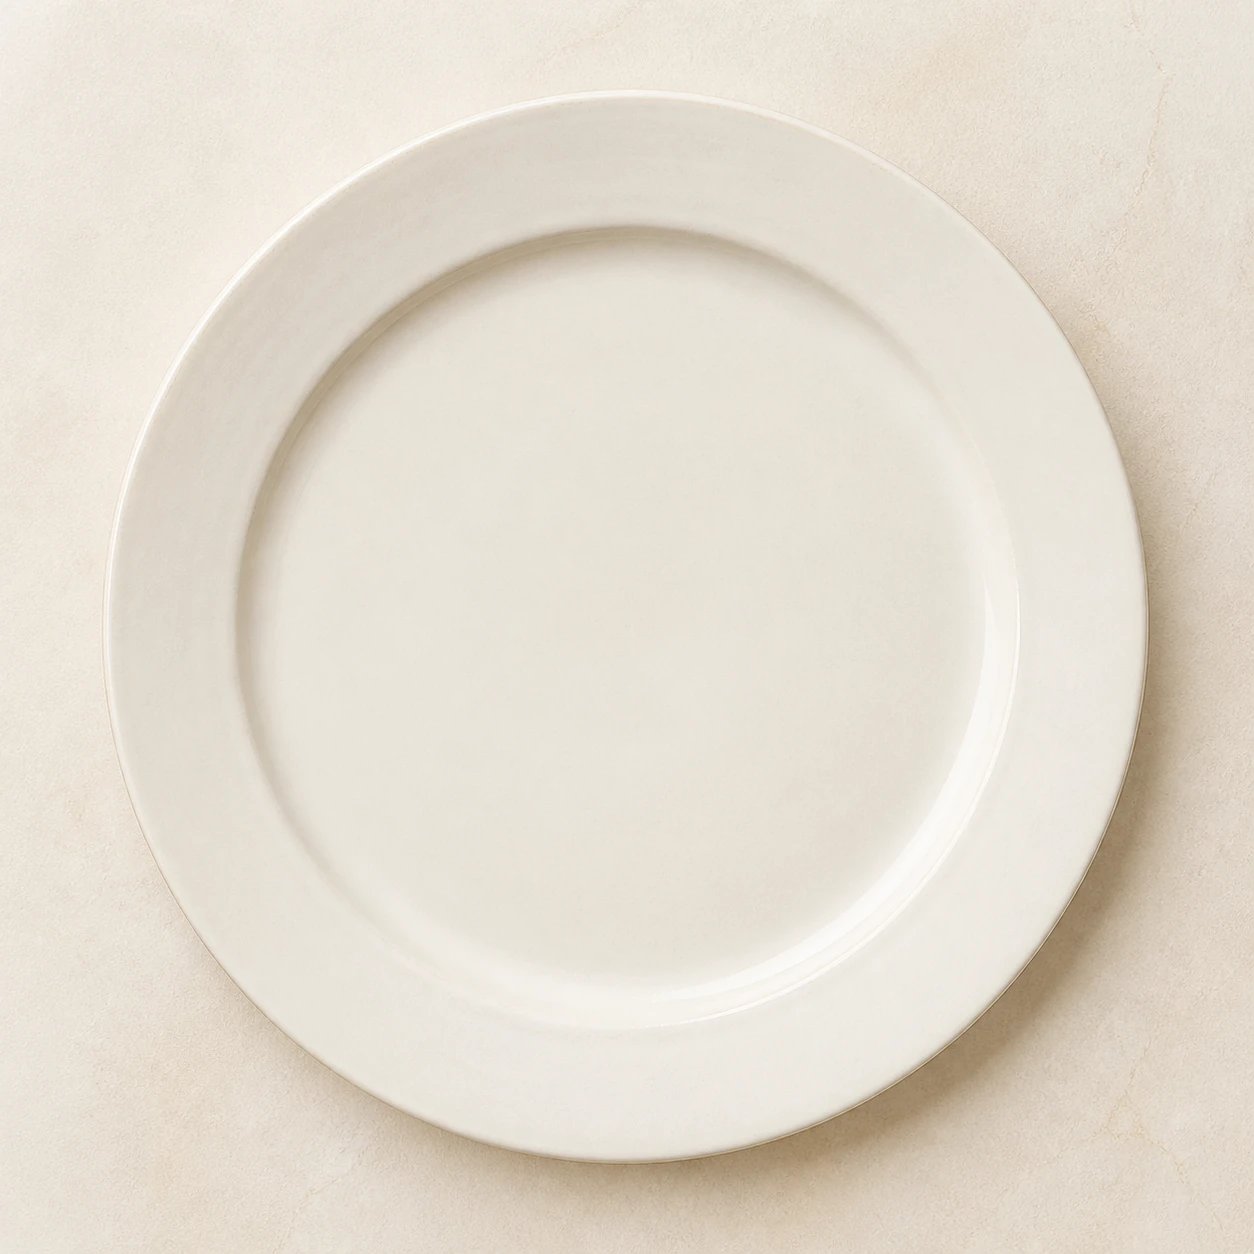
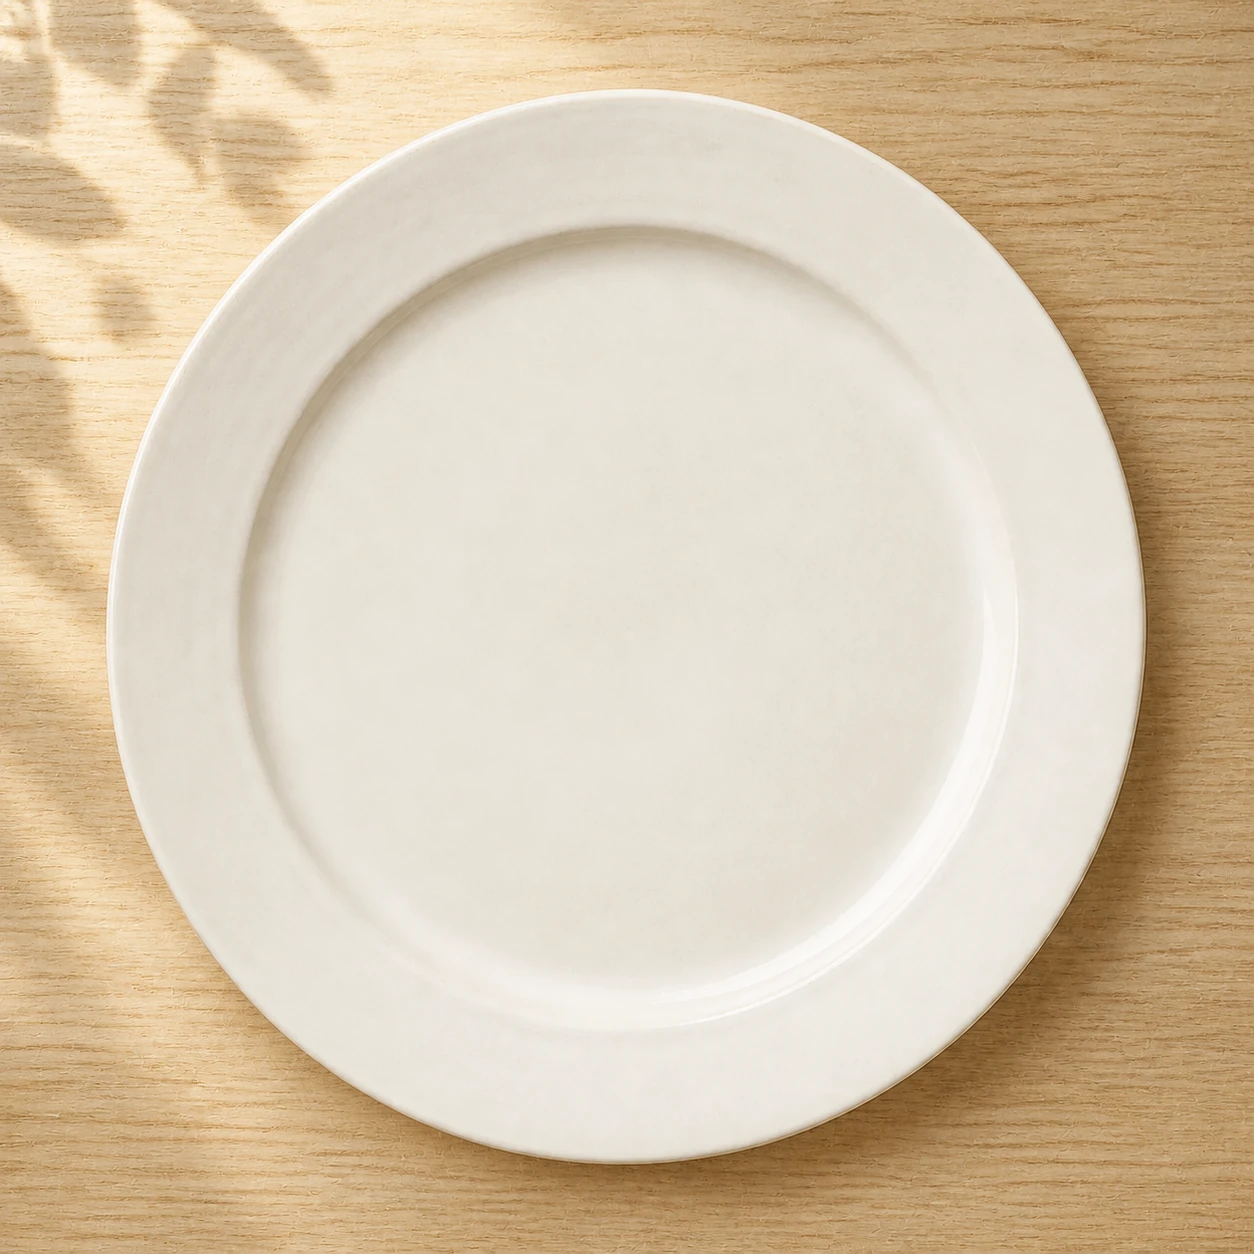
Place Meal Architect plate on warm oak table

diff --git a/src/pages/architect/MealCanvas.tsx b/src/pages/architect/MealCanvas.tsx
@@ -74,7 +74,7 @@ const PlateVisual = memo(function PlateVisual({ empty, count, totalKcal, flashKe
           alt=""
           aria-hidden="true"
           draggable={false}
-          className="pointer-events-none absolute inset-0 h-full w-full select-none rounded-full object-cover"
+          className="pointer-events-none absolute inset-0 h-full w-full select-none rounded-[28px] object-cover"
           style={{ boxShadow: '0 30px 64px -24px rgba(59,48,26,0.24)' }}
         />
         <div